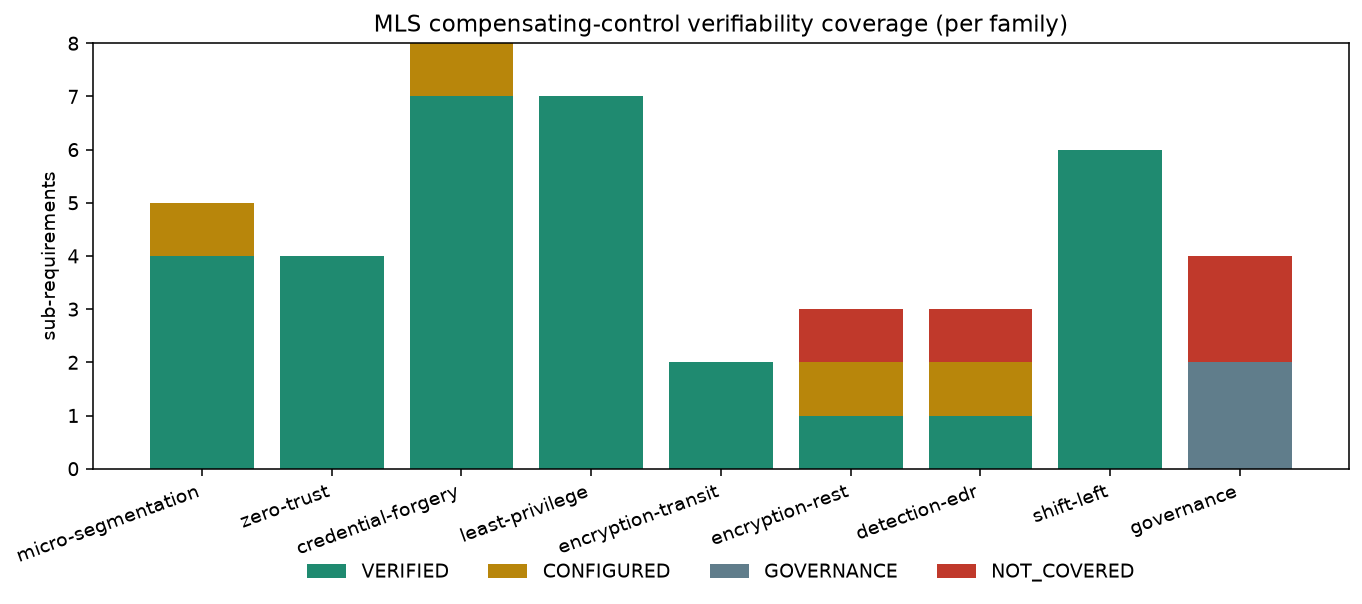
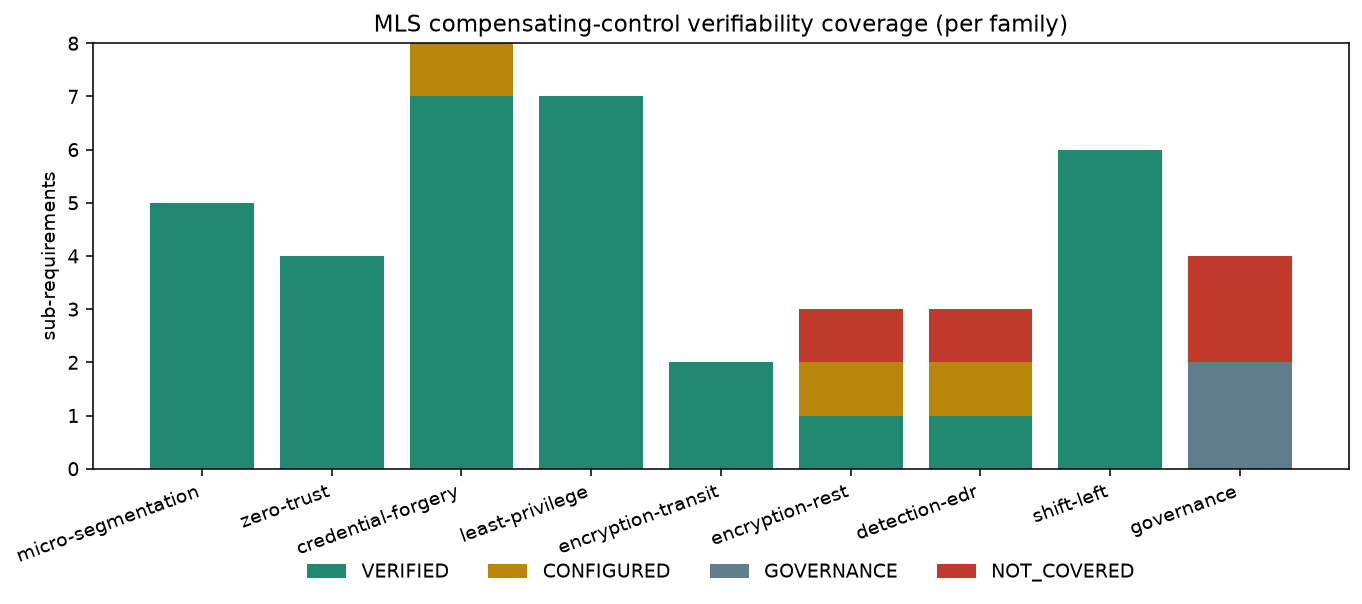
feat(ns5): cross-ns isolation EARNED VERIFIED (live-proven in CI) — headline 80%->82.5% (33/40)
NS5's live cross-ns proof (added in 7013990) is GREEN in CI (run 27751842751, integration step
"NS5 cross-namespace isolation (LIVE...)" = success): a foreign-namespace pod is blocked from db:8080
and api:8080 while web is reachable by design. NS5 is promoted CONFIGURED->VERIFIED — earned by a live
test exactly like LP7/ID6, not relabeled.

Headline 32/40=80% -> 33/40=82.5% (coverage.py computes it; micro-segmentation family now 5/5).
Propagated the exact figure to every surface (README, index, docs/*, gitops, labs m8/m10/m11/capstone,
presentation onepager+PDF+slides+social-card .svg-bar+.png, coverage figure) and the IN1 projections off
the new baseline (IN1-as-CONFIGURED 33/41=80.5%, as-VERIFIED 34/41=82.9%).

Per-family table corrected (the spaced "N / M" cells token-greps kept missing): micro-segmentation
4/5->5/5, and shift-left 5/6->6/6 — the latter a LATENT miss from the SL2 commit (840fd4a), now fixed by
cross-checking the table 1:1 against coverage.py. Also the "33개 VERIFIED" prose count.

Honest scope (CSV + script + table): the SENSITIVE tiers (db, api) are namespace-isolated; web is
intentionally cluster-reachable (allow-ingress-to-web fromEntities:cluster) and is NOT claimed isolated.
The test's web control is load-bearing — it proves connectivity so the db/api block is policy, and a
broken apparatus FAILS rather than silently passing. Adversarial 3-lens pass (consistency/arithmetic/
[…]

Changed region(s): [[0.0925, 0.3278, 0.185, 0.447]]

diff --git a/presentation/cloudsec-onepager.html b/presentation/cloudsec-onepager.html
@@ -106,13 +106,13 @@ footer{margin-top:52px;font:400 11.5px/1.7 var(--mono);color:var(--mut)}
   <hr>
 
   <div class="ledger">
-    <span class="k">coverage</span><span class="bar"><i style="width:80%"></i></span><span class="v">80%</span><span class="d">32/40 — 검증가능-as-code</span>
+    <span class="k">coverage</span><span class="bar"><i style="width:82.5%"></i></span><span class="v">82.5%</span><span class="d">33/40 — 검증가능-as-code</span>
     <span class="k">verify</span><span class="bar"><i style="width:100%"></i></span><span class="v">21/21</span><span class="d">라이브, 전 계층 enforcement</span>
     <span class="k">cedar</span><span class="bar"><i style="width:100%"></i></span><span class="v">8/8·17/17</span><span class="d">인가 + 에이전트 위임 (반증가능)</span>
     <span class="k">rebac</span><span class="bar"><i style="width:100%"></i></span><span class="v">11/11</span><span class="d">OpenFGA 관계 테스트</span>
     <span class="k">checkov</span><span class="bar"><i style="width:100%"></i></span><span class="v">452/0</span><span class="d">shift-left · 실 CVE 1건 포착→수정</span>
   </div>
-  <p class="note">// 21/21은 기능 회귀 스위트(분모 없는 측정 아님) · 갭 20%(CONFIGURED 4·GOVERNANCE 2·NOT-COVERED 4)는 행 단위 공개.</p>
+  <p class="note">// 21/21은 기능 회귀 스위트(분모 없는 측정 아님) · 갭 17.5%(CONFIGURED 3·GOVERNANCE 2·NOT-COVERED 4)는 행 단위 공개.</p>
 
   <hr>
 
@@ -127,7 +127,7 @@ footer{margin-top:52px;font:400 11.5px/1.7 var(--mono);color:var(--mut)}
     <p class="lead">"안전하다"가 아니라 — <span style="color:var(--acc)">갭을 공개한다.</span></p>
     <dl>
       <dt>재현 증거</dt><dd>감사자가 부작용 없는 dry-run으로 <b>직접</b> 거부/허용을 확인.</dd>
-      <dt>명시된 갭</dt><dd>미검증 20%를 행 단위로 공개 — 두루뭉술하지 않다.</dd>
+      <dt>명시된 갭</dt><dd>미검증 17.5%를 행 단위로 공개 — 두루뭉술하지 않다.</dd>
       <dt>정직성</dt><dd>요청자 JWT 행을 <b>증명 전엔 CONFIGURED로 낮춰 뒀다</b>가 라이브로 강제를 증명해 VERIFIED로 올렸다 — 편한 숫자가 아니라 참값.</dd>
     </dl>
   </div>

diff --git a/scripts/coverage.py b/scripts/coverage.py
@@ -42,7 +42,7 @@ def summarize(rows: list[dict]) -> None:
     for c in CATS:
         print(f"  {c:14s}: {by_cat[c]:2d}")
     # print the EXACT fraction (anti-inflation): .1f then strip a trailing ".0" — so
-    # 32/40 prints "80" and 31/40 prints "77.5"; never round a fraction up.
+    # 33/40 prints "82.5" and a whole-number fraction (e.g. 32/40) prints "80"; never round up.
     pct_app_s = f"{pct_app:.1f}".rstrip("0").rstrip(".")
     print(f"\n  HEADLINE: {verifiable}/{workload_applicable} = {pct_app_s}% of "
           f"workload-applicable sub-requirements are VERIFIED-AS-CODE")

diff --git a/docs/evaluation-coverage.md b/docs/evaluation-coverage.md
@@ -31,7 +31,7 @@
 
 **헤드라인 메트릭:**
 
-> ✅ **검증가능-as-code 커버리지:** **워크로드 적용가능 sub-requirement의 80% (32/40)** 가 코드로 검증된다. (거버넌스 포함 전체로는 32/42 = 76%.) 범주 분포: **VERIFIED 32 · CONFIGURED 4 · GOVERNANCE 2 · NOT-COVERED 4.**
+> ✅ **검증가능-as-code 커버리지:** **워크로드 적용가능 sub-requirement의 82.5% (33/40)** 가 코드로 검증된다. (거버넌스 포함 전체로는 33/42 = 79%.) 범주 분포: **VERIFIED 33 · CONFIGURED 3 · GOVERNANCE 2 · NOT-COVERED 4.**
 
 ![MLS verifiability coverage per family](assets/coverage.png)
 
@@ -39,23 +39,23 @@
 
 | 통제 가족 | VERIFIED / 전체 | 주요 갭 |
 |---|---|---|
-| micro-segmentation | 4 / 5 | 교차네임스페이스 격리 미테스트 |
+| micro-segmentation | 5 / 5 | 교차네임스페이스 격리(NS5) = 외부 ns에서 db·api 차단 라이브 증명(scripts/verify-cross-ns.sh, CI) |
 | zero-trust (egress) | 4 / 4 | — |
 | credential-forgery (B7) | 7 / 8 | SPIFFE 시행 테스트(ID4)만 남음. 요청자 JWT 라이브 강제(ID8)·토큰 미마운트(ID6)·타 ns SA-use(ID7) 모두 라이브 VERIFIED |
 | least-privilege | 7 / 7 | deployer RBAC = 라이브 `kubectl auth can-i` 실효-RBAC 증명(LP7) |
 | encryption-in-transit | 2 / 2 | 크로스노드 암호화 + tcpdump 패킷캡처(WG UDP/51871 (25s 윈도우) 존재, eth0 평문 0) — scripts/capture-wg.sh |
 | encryption-at-rest | 1 / 3 | 키회전·KMS는 수동/문서 |
 | detection (EDR) | 1 / 3 | 프로세스감사·광역룰 미assert |
-| shift-left | 5 / 6 | gitleaks는 CI만(SL2); 이미지 서명(cosign)은 로컬 OCI 레지스트리+Kyverno verifyImages로 VERIFIED(SL6, opt-in) |
+| shift-left | 6 / 6 | gitleaks 게이트 = 심은 시크릿 포착을 CI에서 증명(SL2); 이미지 서명(cosign)은 로컬 OCI 레지스트리+Kyverno verifyImages로 VERIFIED(SL6, opt-in) |
 | governance (C/S/O) | 0 / 4 | 본질적으로 워크로드 테스트 불가 |
 
 → 전체 Table 1(42행, sub-requirement→출처→범주→verify 라인/갭)은 [`mls-coverage.csv`](mls-coverage.csv).
 
 ## 논의 (정직한 갭이 곧 기여)
-- **VERIFIED 80%** 는 "워크로드 보상통제를 *어디까지 코드로 증명할 수 있는가*"의 정직한 상한에
+- **VERIFIED 82.5%** 는 "워크로드 보상통제를 *어디까지 코드로 증명할 수 있는가*"의 정직한 상한에
   가깝다 — 망·인가·런타임·암호화(전송 tcpdump 캡처 포함)는 증명되고, **데이터 거버넌스(C/S/O
   분류·DLP·SIEM)는 워크로드 계층 밖**이다. 이 경계를 수치로 보이는 것이 핵심.
-- **라이브 클러스터 세션 — ID6·ID7·SL6 승격으로 헤드라인 65%→72%; 이후 ID8(JWT enforce 라이브, scripts/verify-jwt-enforce)로 72%→75%; 이후 정적 최소권한 가드(LP7 — `scripts/check-deployer-rbac.py`가 deployer Role에 pods/secrets/SA·`*`와일드카드 없음 + 네임스페이스 한정을 CI에서 단언)로 75%→77.5% (이후 라이브 kubectl auth can-i로 보강); 이후 SL2(gitleaks 시연 게이트 — scripts/verify-gitleaks.sh가 심은 시크릿을 잡고 깨끗한 트리는 통과)로 77.5%→80%.** kind+Cilium+Tetragon+Kyverno를
+- **라이브 클러스터 세션 — ID6·ID7·SL6 승격으로 헤드라인 65%→72%; 이후 ID8(JWT enforce 라이브, scripts/verify-jwt-enforce)로 72%→75%; 이후 정적 최소권한 가드(LP7 — `scripts/check-deployer-rbac.py`가 deployer Role에 pods/secrets/SA·`*`와일드카드 없음 + 네임스페이스 한정을 CI에서 단언)로 75%→77.5% (이후 라이브 kubectl auth can-i로 보강); 이후 SL2(gitleaks 시연 게이트 — scripts/verify-gitleaks.sh가 심은 시크릿을 잡고 깨끗한 트리는 통과)로 77.5%→80%; 이후 NS5(cross-ns 라이브 격리 — scripts/verify-cross-ns.sh가 외부 ns에서 db·api 차단을 CI에서 증명)로 80%→82.5%.** kind+Cilium+Tetragon+Kyverno를
   띄워 세 통제를 라이브로 증명했다: **ID6**(SA 토큰 미마운트 — web/api 토큰 경로 ABSENT + 3티어
   automount=false), **ID7**(Kyverno SA-use ClusterPolicy가 *다른* 네임스페이스에서 cross-ns DENY —
   `scripts/verify-kyverno`), **SL6**(Kyverno verifyImages가 cosign-signed→ADMIT / unsigned→DENY —
@@ -70,15 +70,15 @@
   `AUTH_REQUIRE_JWT=1` enforce 모드를 라이브로 증명(`scripts/verify-jwt-enforce.ps1`: unauth→401·Bearer→200,
   `auth_test.py` **18/18**) → **ID8 = VERIFIED**(enforce는 opt-in; 기본 배포는 데모 X-User). 프로덕션
   OAuth 2.1 RS/JWKS·RFC 8693 OBO는 [authorization-model](authorization-model.md) 문서 매핑(doc-only).
-- **CONFIGURED 4** 는 "있지만 (라이브로) 증명 안 됨" — 가장 위험한 범주(감사 시 "있다"고 주장하나
+- **CONFIGURED 3** 는 "있지만 (라이브로) 증명 안 됨" — 가장 위험한 범주(감사 시 "있다"고 주장하나
   시행 미증명). 남은 타깃은 SPIFFE 시행 테스트(ID4)·etcd 키회전 자동화(ER2).
 - **GOVERNANCE 2 / NOT-COVERED 4** — 남은 NOT_COVERED는 관리형 KMS/HSM(ER3)·광역 런타임룰(ED3)·
   DLP(GV3)·SIEM(GV4)으로 *이 레퍼런스의 범위 밖*이거나 전사 통제다. (직전까지 NOT_COVERED였던 ID7 SA-use
   타 ns·SL6 이미지 서명은 이번 라이브 세션에 VERIFIED로 승격.)
-- **VERIFIED 등급의 정직한 결 — always-on CI-게이트 vs opt-in 재현.** 32개 VERIFIED 중 다수는 매 CI 푸시마다 도는
+- **VERIFIED 등급의 정직한 결 — always-on CI-게이트 vs opt-in 재현.** 33개 VERIFIED 중 다수는 매 CI 푸시마다 도는
   always-on 게이트(verify.sh 21/21·정적 가드·단위테스트, + integration job의 LP7-live·ID6·M9 라이브)지만, 일부는
   클러스터에서 **opt-in으로 재현**하는 스크립트다(ET2 capture-wg·ID7 verify-kyverno·SL6 verify-image-signing·ID8
-  enforce 모드). 둘 다 *재실행 가능*이나 후자는 *상시 CI-게이트는 아니다* — "80%"는 **검증가능성**의 분율이지
+  enforce 모드). 둘 다 *재실행 가능*이나 후자는 *상시 CI-게이트는 아니다* — "82.5%"는 **검증가능성**의 분율이지
   매 푸시 연속보장의 분율이 아니다.
 
 ## 한계

diff --git a/docs/decisions/0002-argocd-gitops-relocates-identity-tcb.md b/docs/decisions/0002-argocd-gitops-relocates-identity-tcb.md
@@ -33,12 +33,12 @@ B7의 "누가 `app:web` 파드를 만드나"가 "누가 repo에 머지하나 + r
 
 ## 헤드라인 정직성 (가장 중요한 콜)
 GitOps 대부분은 **ops/거버넌스이거나 기존 통제의 *재계측*** 이지 headline 변화가 아니다.
-- **기본: 헤드라인 80%(32/40)는 이 모듈로 바뀌지 않는다.** coverage 행 추가는 **오너 결정**으로 분리한다 — 결정: 행 미추가. coverage 분모는 *고정된* MLS 요구집합을 추적하고, GitOps 무결성은 자체 추가 통제라 위협모델 B8·학습모듈(M10)로 기록한다(라이브 ArgoCD를 상시 CI 게이트로 만들면 재검토).
+- **기본: 헤드라인 82.5%(33/40)는 이 모듈로 바뀌지 않는다.** coverage 행 추가는 **오너 결정**으로 분리한다 — 결정: 행 미추가. coverage 분모는 *고정된* MLS 요구집합을 추적하고, GitOps 무결성은 자체 추가 통제라 위협모델 B8·학습모듈(M10)로 기록한다(라이브 ArgoCD를 상시 CI 게이트로 만들면 재검토).
 - 추가 시 후보는 단 1행 — **IN1**(새 family `integrity`): "desired-state drift auto-reverted within sync
   interval". 이건 어느 기존 계층도 증명 못하는 유일한 *런타임 무결성* 통제(detection=ED*·prevention=ID*와
   구별되는 **correction**)다. 정직한 매핑:
-  - CI hard-gate(push-triggered)면 → VERIFIED → 33/41 = **80.5%**.
-  - 로컬 랩 grader만(ID4 SPIFFE 선례)이면 → CONFIGURED → 32/41 = **78.0%** (denominator +1이 비율을
+  - CI hard-gate(push-triggered)면 → VERIFIED → 34/41 = **82.9%**.
+  - 로컬 랩 grader만(ID4 SPIFFE 선례)이면 → CONFIGURED → 33/41 = **80.5%** (denominator +1이 비율을
     *먼저 떨어뜨린다* — ID8이 쓴 "증명 전엔 claim 안 함"의 정직한 방향).
 - **이중계상 금지:** L2 fighting-controllers·L3-static·L4 supply-chain·L5 ordering은 *기존* 통제(ID1/SL6/B7)의
   property를 새 actor로 재측정한 것 — evidence 강화지 새 row가 아니다. 모듈의 가치는 coverage가 아니라 **깊이**.

diff --git a/index.md b/index.md
@@ -8,7 +8,7 @@ hide:
 
 검증 가능한 다층보안(MLS) 보상통제를 코드로 — 한 요청이 신원·세분화·인가·암호화·탐지를 전부 통과해야 데이터에 닿고, 막힌다는 사실을 매번 라이브로 증명한다.
 
-[라이브 검증 21/21](docs/evaluation-coverage.md) · [검증가능 커버리지 80%](docs/evaluation-coverage.md) · [적대적 검증: CRITICAL 1 발견·수정](THREAT_MODEL.md) · 무료 로컬 $0
+[라이브 검증 21/21](docs/evaluation-coverage.md) · [검증가능 커버리지 82.5%](docs/evaluation-coverage.md) · [적대적 검증: CRITICAL 1 발견·수정](THREAT_MODEL.md) · 무료 로컬 $0
 
 [여기서 시작 — M0 재구현 (클러스터 불필요·Python만)](labs/m0/README.md) · [트랙 전체 보기](labs/README.md)
 
@@ -74,7 +74,7 @@ flowchart TB
 ## 기여 (contributions)
 
 - **규제 → 통제 매핑** — FSC 망분리 완화/MLS 보상통제 6종을 NIST SP 800-207·ISMS-P·검증 항목에 1:1 매핑. [→ MLS 매핑](docs/financial-mls-mapping.md)
-- **검증가능성 기준 + 커버리지 측정** — "각 규제 요구는 시행을 증명하는 실행 테스트에 대응돼야 한다"를 기준으로, MLS 보상통제의 80%가 코드로 검증가능함을 정량화(갭 공개). [→ 평가](docs/evaluation-coverage.md)
+- **검증가능성 기준 + 커버리지 측정** — "각 규제 요구는 시행을 증명하는 실행 테스트에 대응돼야 한다"를 기준으로, MLS 보상통제의 82.5%가 코드로 검증가능함을 정량화(갭 공개). [→ 평가](docs/evaluation-coverage.md)
 - **적대적 검증** — LLM 멀티에이전트 재검토가 자체 SA-use 정책의 실제 우회(CRITICAL)를 발견 → 수정 → 라이브 재검증. 잔여위험 명시.
 - **인가 흐름 정렬 + 프런티어** — RBAC+ABAC 하이브리드 · policy-as-code · 지속평가. AI-에이전트 위임(Cedar)·ReBAC(OpenFGA)을 실행 데모로 충족(NHI 생애주기 포함). [→ 인가 모델](docs/authorization-model.md)
 
@@ -84,7 +84,7 @@ flowchart TB
 
 | 항목 | 결과 |
 |------|------|
-| **검증가능성 커버리지 (정량 헤드라인)** | 워크로드 적용가능 MLS 보상통제 sub-requirement의 **80% (32/40)** 가 *코드로 검증* — 갭(CONFIGURED 4·NOT-COVERED 4·GOVERNANCE 2)을 정직하게 공개. [→ 평가](docs/evaluation-coverage.md) |
+| **검증가능성 커버리지 (정량 헤드라인)** | 워크로드 적용가능 MLS 보상통제 sub-requirement의 **82.5% (33/40)** 가 *코드로 검증* — 갭(CONFIGURED 3·NOT-COVERED 4·GOVERNANCE 2)을 정직하게 공개. [→ 평가](docs/evaluation-coverage.md) |
 | 라이브 방어심층 검증 (기능 회귀 스위트) | **21 / 21 PASS** — 차단/허용 enforcement 전부. WireGuard는 api/db를 다른 노드로 강제(podAntiAffinity)하고 tcpdump로 선상 WG 암호문(UDP/51871, 25s 윈도우) + 평문 0 확인(`scripts/capture-wg.sh`) |
 | Cedar 인가 단위테스트 | **8 / 8** (코어) · **17 / 17** AI-에이전트 위임(confused-deputy 차단 + ASI08 위임깊이 cap·홉별 클램프·출처 게이트; P2·P3·P5·P6·P7 mutation으로 반증가능) |
 | ReBAC 관계 테스트 (OpenFGA) | **11 / 11** `fga model test` + 라이브 `/check` 11/11 — 인가 모델의 ReBAC 갭을 실행으로 충족 |

diff --git a/labs/m10/README.md b/labs/m10/README.md
@@ -123,9 +123,9 @@ M2식 *"한 줄이 통제다"*. 떠먹여주는 모드는 [LEARN.md](LEARN.md). 
 ## 왜 헤드라인이 (거의) 안 변하나
 
 > **GitOps 대부분은 ops/instrumentation이거나 기존 통제의 *재계측*이지 새 VERIFIED 행이 아니다.** 기본값으로
-> 헤드라인 **80%(32/40)는 이 모듈로 바뀌지 않는다.** 추가 후보는 단 1행 — **IN1**(새 family `integrity`,
-> "drift auto-reverted within sync interval") — 이고, 그조차 정직하게: CI hard-gate면 VERIFIED(→80.5%), 로컬
-> 랩 grader만이면 CONFIGURED(→**78.0%**, denominator +1이 비율을 *먼저* 떨어뜨림 — ID8의 "증명 전엔 claim 안 함"
+> 헤드라인 **82.5%(33/40)는 이 모듈로 바뀌지 않는다.** 추가 후보는 단 1행 — **IN1**(새 family `integrity`,
+> "drift auto-reverted within sync interval") — 이고, 그조차 정직하게: CI hard-gate면 VERIFIED(→82.9%), 로컬
+> 랩 grader만이면 CONFIGURED(→**80.5%**, denominator +1이 비율을 *먼저* 떨어뜨림 — ID8의 "증명 전엔 claim 안 함"
 > 방향). L2~L5는 기존 ID1/SL6/B7의 property를 새 actor로 재측정 — evidence 강화지 새 행 아님. **모듈의 가치는
 > coverage가 아니라 깊이다.** 행 추가/승격은 오너 결정 → [ADR 0002](../../docs/decisions/0002-argocd-gitops-relocates-identity-tcb.md).
 

diff --git a/labs/m8/README.md b/labs/m8/README.md
@@ -12,7 +12,7 @@
 바로 **shipped 기본이 zero-exec**(`sys_execve`+`sys_execveat` 전부 Sigkill, `k8s/tracingpolicy.yaml`)인 이유임을
 보인다. `verify-runtime-scope`는 두 룰을 차례로 적용해 *델타*를 측정한다: 선택적은 `id`를 살리고(갭), zero-exec는
 그 `id`까지 죽인다(이름 무관) — 그 뒤 shipped zero-exec로 복원한다.
-**메트릭은 변하지 않는다(80% 그대로):** ED1은 **VERIFIED 그대로** — M8/[ADR 0001](../../docs/decisions/0001-data-tier-zero-exec.md)은
+**메트릭은 변하지 않는다(82.5% 그대로):** ED1은 **VERIFIED 그대로** — M8/[ADR 0001](../../docs/decisions/0001-data-tier-zero-exec.md)은
 통제를 더/덜 만든 게 아니라 *증거를 선택적→zero-exec로 정직하게 진화*시키고 기본으로 승격했을 뿐(개수 불변).
 
 > **학습 성과:** 런타임 kill의 정직한 경계를 *라이브로 측정*해 설명할 수 있다 — detection≠prevention, execve(pre-image-load) vs I/O(write window), 그리고 io_uring에 blind한 건 *기본 syscall 정책*이고 LSM/KRSI가 해법이라는 것.
@@ -206,7 +206,7 @@ kubectl exec db -n shop -- id                     # -> rc=137 (정책 kill)
 - [ ] **B:** 실제 결과 보고(예상: marker 없음/쓰기 불가) + readOnlyRootFS 이중차단 이해
 - [ ] **C:** write-window를 측정(`bytes>0`) **또는** 정직한 SKIP + "synchronous-process-kill ≠ pre-operation"과 Sigkill vs +Override 설명
 - [ ] **D:** 비셸 exec + 파일 읽기 생존 확인 + io_uring/BPF-LSM(KRSI)을 robust 훅으로 지목
-- [ ] 헤드라인이 **왜 안 변하나**(80%) 설명 — M8은 통제 가감이 아니라 가장자리 측정
+- [ ] 헤드라인이 **왜 안 변하나**(82.5%) 설명 — M8은 통제 가감이 아니라 가장자리 측정
 
 ## 구두 문답
 1. <details><summary>execve+Sigkill은 prevention-grade인데 write+Sigkill은 왜 detection-grade?</summary>execve는 새 이미지 load *이전*에 죽어 셸 코드가 실행되지 않음(pre-image-load). write()는 프로세스를 동기적으로 죽여도 커널이 이미 바이트를 기록했을 수 있음. prevention-grade로 만들려면 Sigkill+Override.</details>
@@ -214,7 +214,7 @@ kubectl exec db -n shop -- id                     # -> rc=137 (정책 kill)
 3. <details><summary>io_uring 클래스를 닫는 훅은? 왜?</summary>BPF-LSM/KRSI — syscall 표면이 아니라 커널 *연산*을 관측하므로 호출 방식(syscall vs io_uring)과 무관. Tetragon은 LSM 훅도 지원하므로 io_uring을 "볼 수 있다"; blind한 건 *기본 syscall 정책*일 뿐.</details>
 4. <details><summary>Tetragon은 io_uring에 "blind"한가? 정확히.</summary>아니다(전부는). ARMO는 "기본 syscall 후킹 기반 탐지가 blind"라 했고, Tetragon은 kprobe+LSM 훅도 지원해 io_uring을 잡을 수 있다. "기본 정책 blind / LSM이 해법"이 정확.</details>
 5. <details><summary>matchBinaries로 "nginx만 허용"하는 allowlist를 왜 못 쓰나? 그럼 무엇으로?</summary>`sys_execve`에서 matchBinaries는 적재될 *새 이미지*가 아니라 execve를 *호출한 부모*를 매칭한다. `NotIn [/usr/sbin/nginx]`는 `nginx -v`(호출자=exec shim)를 죽이고 nginx-RCE 셸(호출자=nginx)은 통과시켜 정확히 거꾸로 동작한다. execve 진입 시점엔 caller 정보뿐이라 이름 기반 allowlist가 원리적으로 불가. 진짜 신원이 필요하면 BPF-LSM `security_bprm_creds_for_exec`(적재될 바이너리의 creds를 본다).</details>
-6. <details><summary>zero-exec가 selective보다 "더 강한 통제"라서 커버리지가 올라가야 하지 않나?</summary>아니다 — selector를 *추가*한 게 아니라 *줄여* 매칭 표면을 없앤 것이다. ED1의 주장("데이터 티어 셸 exec를 죽인다")은 selective에서도 zero-exec에서도 참이라 개수가 불변(80%). (#2가 하향을, 이건 상향을 막는 같은 정직성의 두 방향.)</details>
+6. <details><summary>zero-exec가 selective보다 "더 강한 통제"라서 커버리지가 올라가야 하지 않나?</summary>아니다 — selector를 *추가*한 게 아니라 *줄여* 매칭 표면을 없앤 것이다. ED1의 주장("데이터 티어 셸 exec를 죽인다")은 selective에서도 zero-exec에서도 참이라 개수가 불변(82.5%). (#2가 하향을, 이건 상향을 막는 같은 정직성의 두 방향.)</details>
 7. <details><summary>execve 룰을 web/api 티어엔 왜 안 거나? (ED3 NOT_COVERED)</summary>데이터 티어는 정당한 exec가 0(프로브=httpGet, 본체=PID1)이라 "전부 금지"가 가용성을 안 깬다. web/api는 정상 운영 중 exec할 수 있어(예: 진입스크립트·sidecar) 전면 금지가 곧 가용성 사고. 그래서 zero-exec는 `tier: data`(ⓐ)에 한정되고, 다른 티어는 NOT_COVERED로 정직히 남긴다 — 과잉차단도 결함이라는 M4 교훈의 연장.</details>
 
 ## 더 깊이 (1차 출처)

diff --git a/presentation/slides.md b/presentation/slides.md
@@ -66,13 +66,13 @@ FSC 로드맵(2024-08-13): **위치 기반 분리 → 위험 기반 MLS**.
 
 | metric | | |
 |---|---|---|
-| coverage | 검증가능-as-code | 80% (32/40) |
+| coverage | 검증가능-as-code | 82.5% (33/40) |
 | verify | 라이브, 전 계층 | 21/21 |
 | cedar | 인가 + 에이전트 위임 | 8/8 · 17/17 |
 | rebac | OpenFGA 관계 | 11/11 |
 | checkov | shift-left · 실 CVE 포착 | 452 / 0 |
 
-<span class="mut mono" style="font-size:.7em">// 21/21은 기능 회귀 스위트(분모 없음) · 갭 20%(CONFIGURED 4·GOVERNANCE 2·NOT-COVERED 4)는 행 단위 공개</span>
+<span class="mut mono" style="font-size:.7em">// 21/21은 기능 회귀 스위트(분모 없음) · 갭 17.5%(CONFIGURED 3·GOVERNANCE 2·NOT-COVERED 4)는 행 단위 공개</span>
 
 ---
 
@@ -90,7 +90,7 @@ FSC 로드맵(2024-08-13): **위치 기반 분리 → 위험 기반 MLS**.
 <span class="mut">"안전하다"가 아니라 — </span>**갭을 공개한다.**
 
 - **재현 증거** — 감사자가 부작용 없는 dry-run으로 직접 확인
-- **명시된 갭** — 미검증 20%를 행 단위로 공개
+- **명시된 갭** — 미검증 17.5%를 행 단위로 공개
 - **정직성** — 요청자 JWT 행을 *증명 전엔 CONFIGURED로 낮춰 뒀다가 라이브로 강제를 증명해 VERIFIED로 올렸다* (편한 숫자가 아니라 참값)
 - **적대적 자기검증** — 우리 정책의 실 결함(SA-use CRITICAL)을 찾아 수정·재검증
 

diff --git a/docs/nhi.md b/docs/nhi.md
@@ -5,7 +5,7 @@
 > 추가하지 않는다.** 이미 검증된 통제를 **NHI 생애주기 6단계**(provision → authenticate →
 > authorize → rotate → detect → decommission)로 재조명하고, 각 항목을
 > [`mls-coverage.csv`](mls-coverage.csv)의 **기존 id와 그 라벨**(VERIFIED/CONFIGURED/NOT_COVERED)에
-> 그대로 연결한다. 헤드라인 80%(32/40)는 **이 문서로 인해 바뀌지 않는다** — 이 문서는 메트릭을 더하지 않고,
+> 그대로 연결한다. 헤드라인 82.5%(33/40)는 **이 문서로 인해 바뀌지 않는다** — 이 문서는 메트릭을 더하지 않고,
 > 같은 증거를 다른 렌즈로 본다.
 
 ## NHI란, 그리고 왜 2024–2026의 핵심인가
@@ -73,7 +73,7 @@ AI 에이전트도 NHI다. 자세한 모델은 [`authorization-model.md` §4·§
 
 ## 평가 분석과의 연결 (새 메트릭 없음)
 
-이 문서는 **CSV에 행을 더하지 않고, 헤드라인 80%(32/40)를 이 문서로 인해 바꾸지 않는다.** 위 표의 모든 id
+이 문서는 **CSV에 행을 더하지 않고, 헤드라인 82.5%(33/40)를 이 문서로 인해 바꾸지 않는다.** 위 표의 모든 id
 (ID1–ID6, NS3·NS4, ZT1–ZT3, LP1–LP6, ED1–ED3, ER2)는 이미 [`mls-coverage.csv`](mls-coverage.csv)에
 *그 범주 그대로* 존재한다. NHI 렌즈는 **이미 검증된 증거 위에 올라탄다** — 증거를 부풀리지 않는다.
 이 불변성 자체가 정직성의 보증이다(`python scripts/coverage.py` 출력은 이 문서로 인해 변하지 않는다).

diff --git a/labs/m11/README.md b/labs/m11/README.md
@@ -35,13 +35,13 @@
 ## 정직한 한계 (과장 금지)
 
 - **kind/Docker Desktop은 대개 BPF-LSM이 없다.** `cat /sys/kernel/security/lsm`에 `bpf`가 없으면(흔함) grade.sh는 **SKIP**한다 — 그 환경에선 이 통제를 *증명할 수 없다*. (kind 이슈 #4883류; M8의 SKIP 선례.)
-- **그래서 ED3는 여전히 NOT_COVERED다.** M11은 LSM *메커니즘*을 제공·설명하지만, kind에서 라이브로 안정 증명이 안 되므로 **헤드라인 80%는 안 바뀐다** — 단발 행운의 PASS로 ED3를 VERIFIED로 올리지 않는다(정직성 철칙).
+- **그래서 ED3는 여전히 NOT_COVERED다.** M11은 LSM *메커니즘*을 제공·설명하지만, kind에서 라이브로 안정 증명이 안 되므로 **헤드라인 82.5%는 안 바뀐다** — 단발 행운의 PASS로 ED3를 VERIFIED로 올리지 않는다(정직성 철칙).
 - **"io_uring-proof / 우회 불가" 주장 금지.** 이 랩의 주장은 딱 *"LSM 훅이 syscall-arg0/caller가 못 보던 적재-이미지 연산을 본다"* 뿐이다. LSM도 전능하지 않다(정책 미적용 경로·다른 LSM 충돌 등).
 - **Sigkill은 탐지-후-kill.** prevention-grade는 LSM `bprm`에서 **`Override`(-EPERM 반환)**로 exec 자체를 거부하는 것 — 룰에 옵션으로 표기. (Tetragon의 정확한 LSM arg-resolve/Sigkill 문법은 버전 의존 — 정책 헤더 주석 참고.)
 
 ## 왜 헤드라인이 안 변하나
 
-> M11은 M8이 가리킨 LSM 잔여를 *랩으로* 만든 **깊이 모듈**이다. kind에서 BPF-LSM이 없어 라이브 증명이 SKIP-prone이라, **ED3는 NOT_COVERED 그대로, 80%(32/40) 불변.** 통제를 가감한 게 아니라 *메커니즘과 그 한계를 가르친다*. (BPF-LSM 가능 클러스터에서 cross-tier 적재-이미지 kill이 *실제로* 발화하면 그때 ED3 승격을 오너가 판단 — 단발 PASS로는 안 됨.)
+> M11은 M8이 가리킨 LSM 잔여를 *랩으로* 만든 **깊이 모듈**이다. kind에서 BPF-LSM이 없어 라이브 증명이 SKIP-prone이라, **ED3는 NOT_COVERED 그대로, 82.5%(33/40) 불변.** 통제를 가감한 게 아니라 *메커니즘과 그 한계를 가르친다*. (BPF-LSM 가능 클러스터에서 cross-tier 적재-이미지 kill이 *실제로* 발화하면 그때 ED3 승격을 오너가 판단 — 단발 PASS로는 안 됨.)
 
 ## 구두 문답
 

diff --git a/README.md b/README.md
@@ -115,7 +115,7 @@ python formal/cross_layer.py --open-auditlogs  # 반증: L7 경로를 열면 sha
 - `scripts/verify.sh` — kind + Cilium + Tetragon에서 라이브 검증 21/21 (로컬·CI 공통).
 - Cedar — 코어 인가 8/8, 에이전트 위임 17/17 (confused-deputy + ASI08 위임깊이 cap·홉별 클램프·출처 게이트). ReBAC — 11/11 (`fga model test`).
 - checkov — 452 pass / 0 fail / 5건 문서화된 skip.
-- MLS 검증가능성 커버리지 — 80% (32/40); 갭은 [`docs/mls-coverage.csv`](docs/mls-coverage.csv)에 공개.
+- MLS 검증가능성 커버리지 — 82.5% (33/40); 갭은 [`docs/mls-coverage.csv`](docs/mls-coverage.csv)에 공개.
 
 계층별 상세·검증 노트·로드맵은 [`docs/`](docs/)에 있습니다(로컬에서 `pip install -r requirements-docs.txt && mkdocs serve`로 사이트로도 볼 수 있음).
 